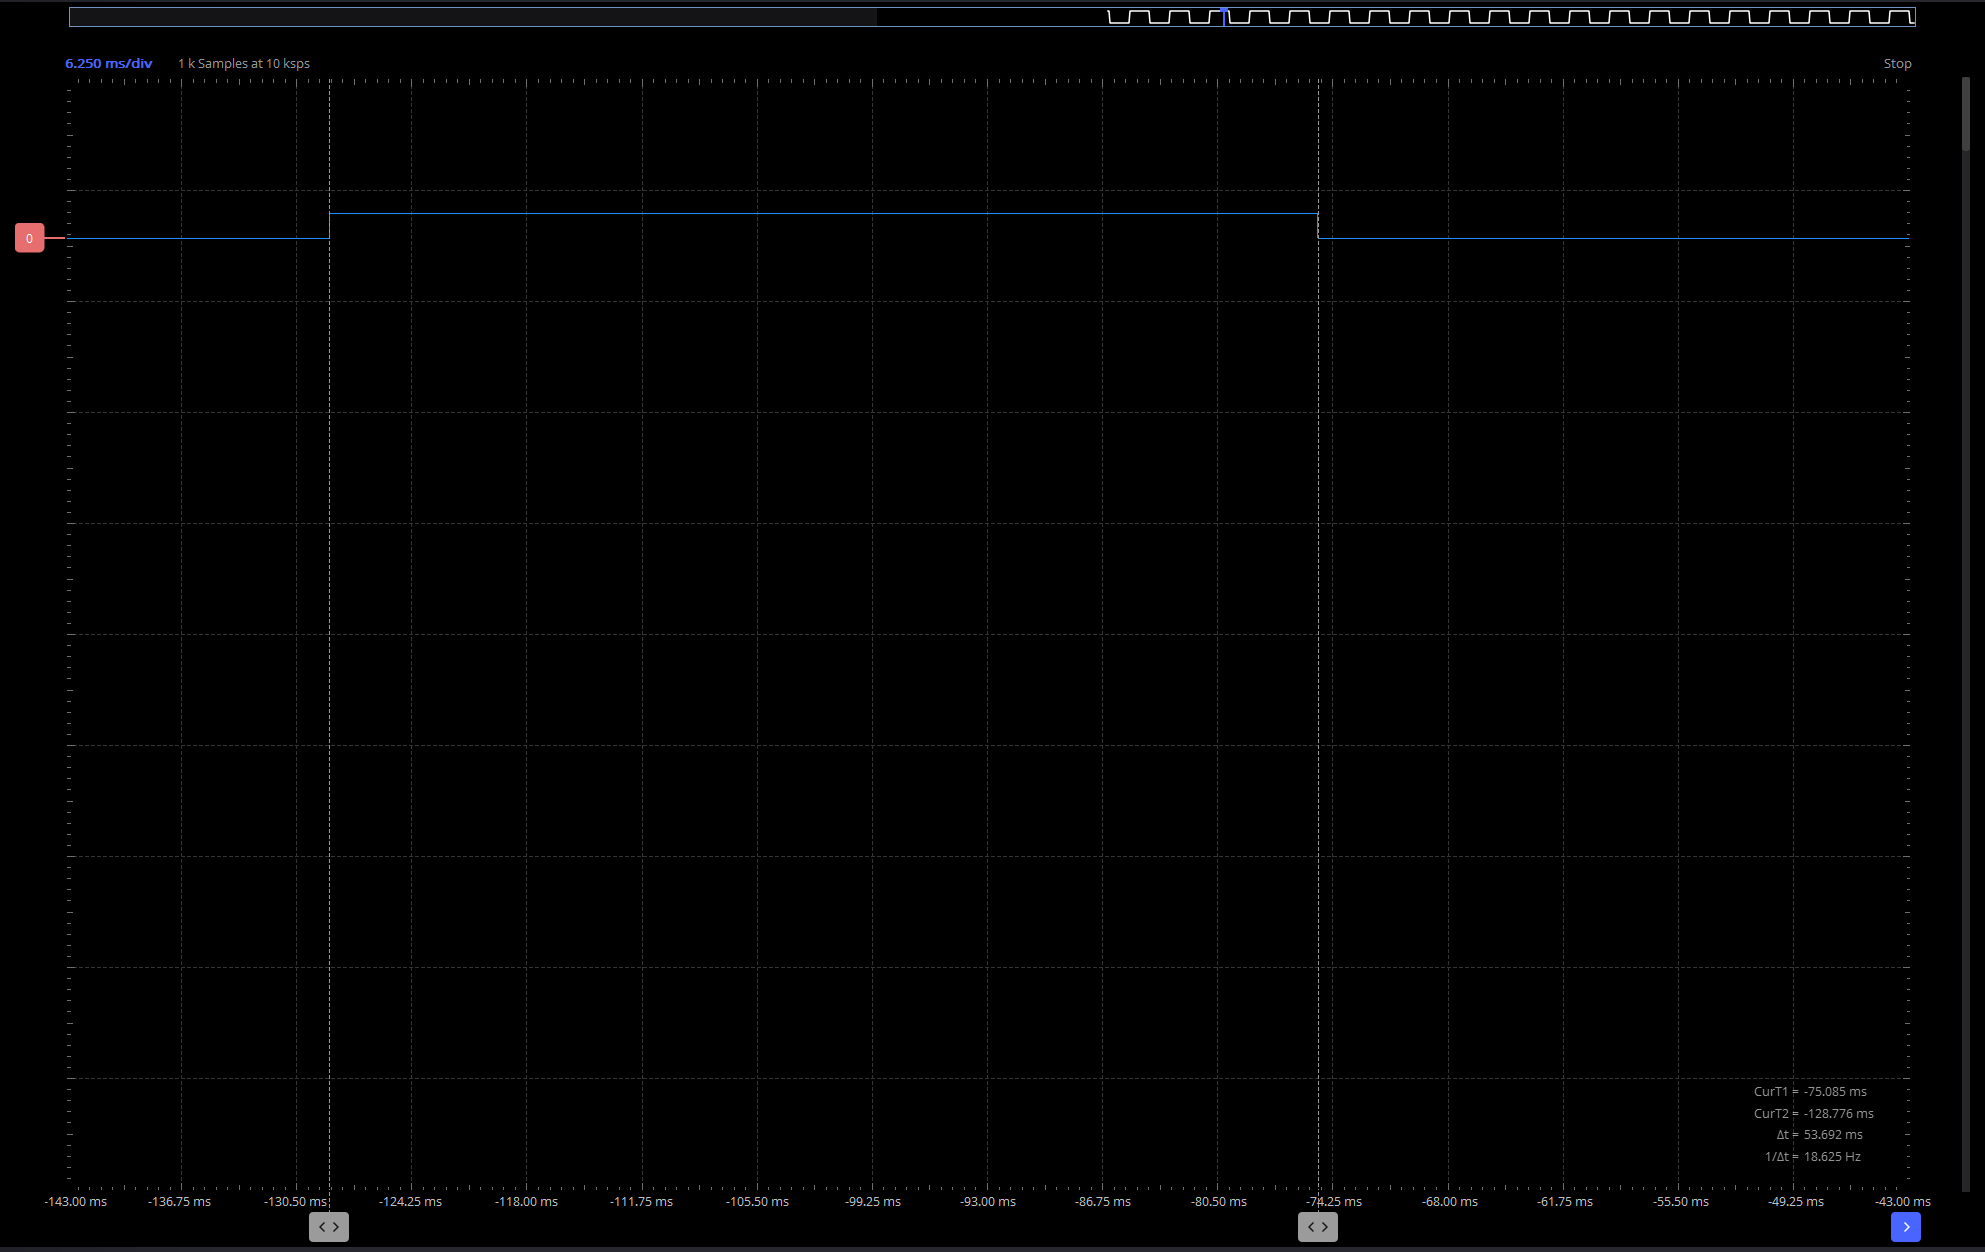
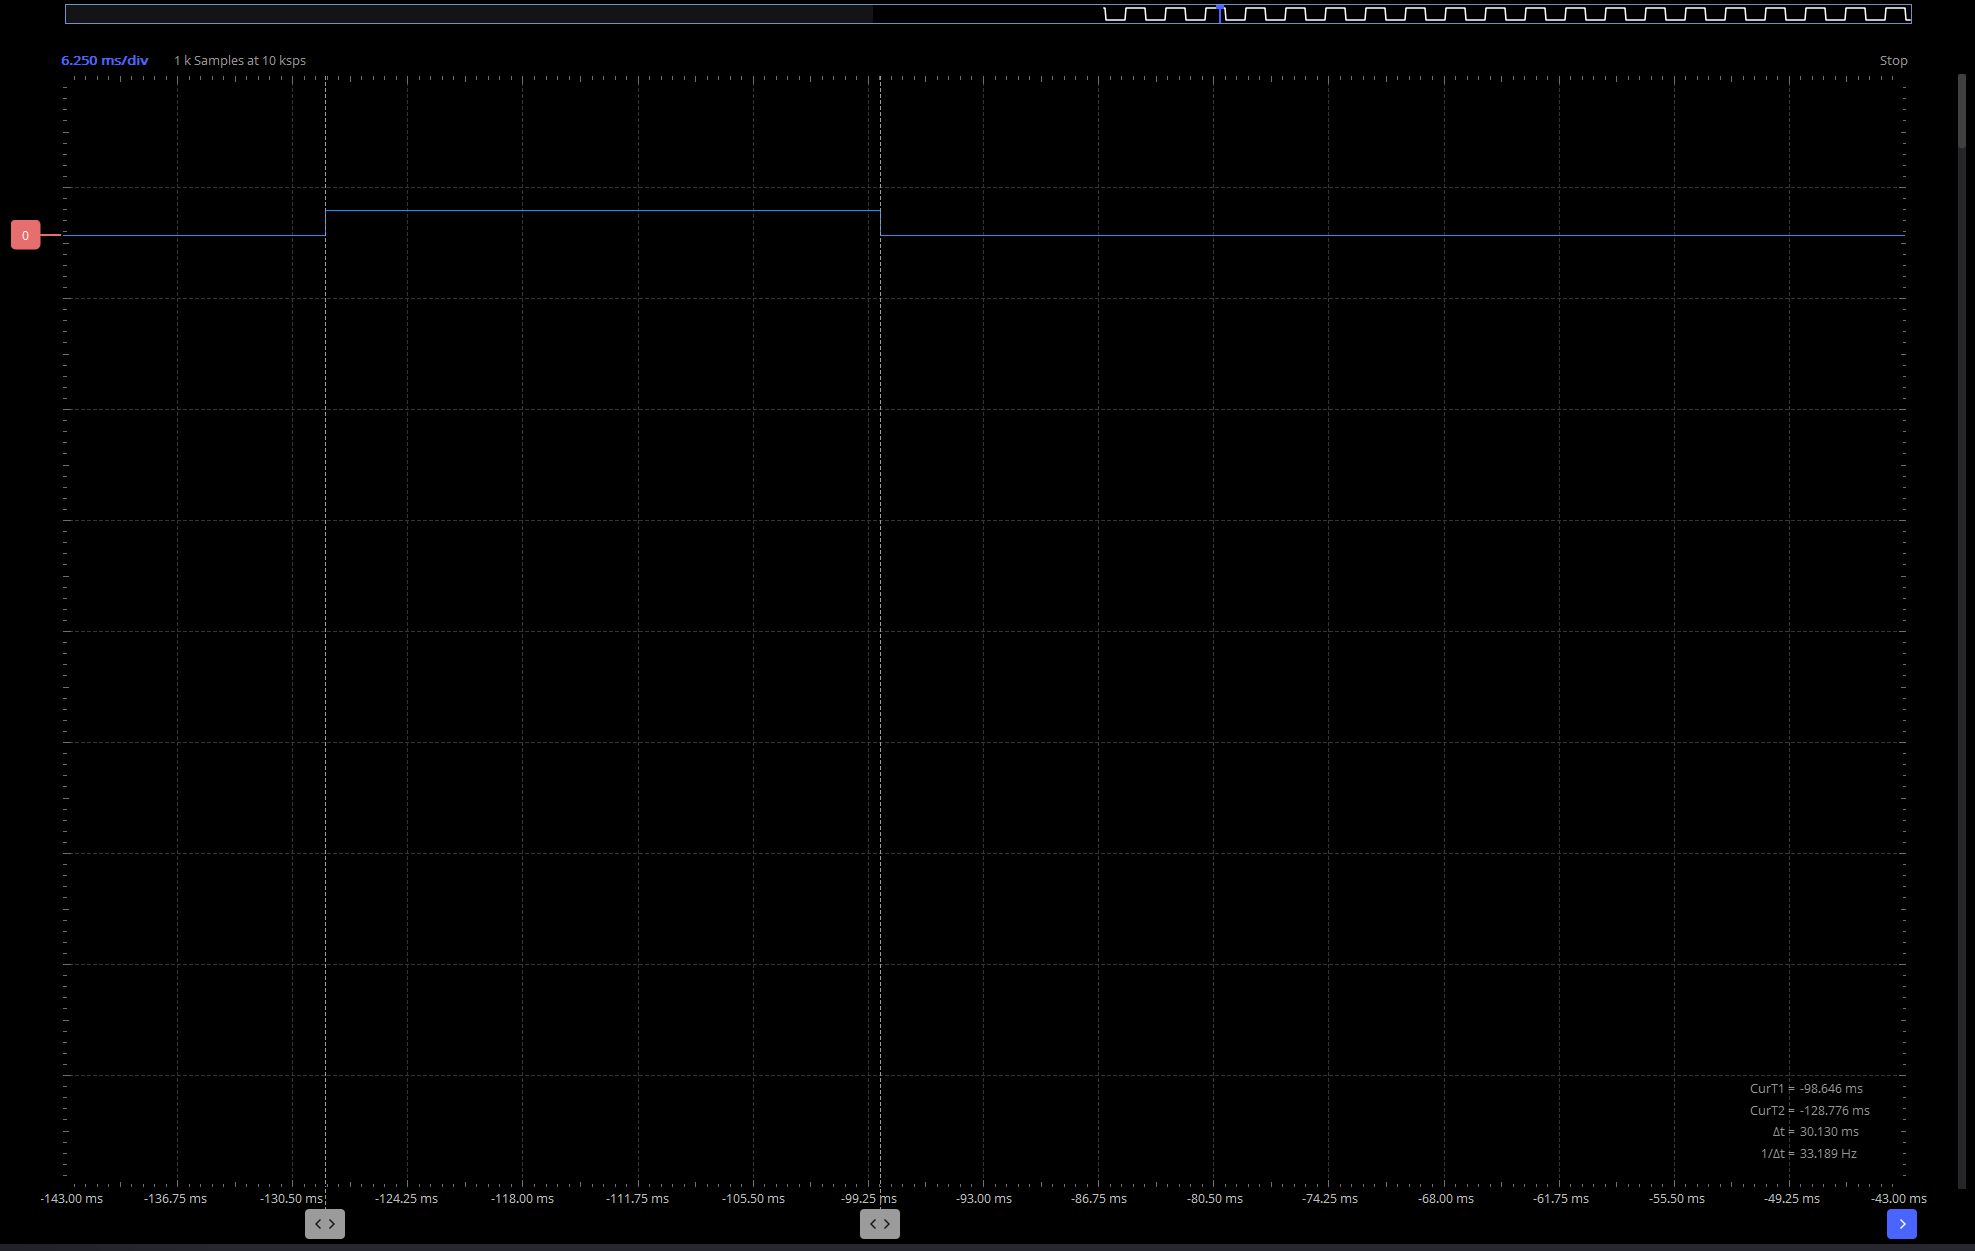
update

diff --git a/Project6-Timers/README.md b/Project6-Timers/README.md
@@ -25,6 +25,6 @@ the call back is to turn off the light and it called when the timer is done.
 - check that although the delay of 1 second is still in the loop function, the LED now turns off after 5 seconds
 
 - change the LED time ON from 5 seconds to 30 ms, measure in the scope the time the LED is ON. is it 30 ms? Why or why not?
-answer here: its close but not since there is a bit of latancy from the moment we set and start the timer and also from the moment it goes to the function thes all result in ~50ms delay rather than a the wanted 30ms. also the pressing is a bit longer so it can influence th trigger of the light wich can cause it to shine a bit longer.
+answer here: its close but not since there is a bit of latancy from the moment we set and start the timer and also from the moment it goes to the function thes all result in 170microseconds og latancy 
 paste a screen shot from the scope below:
 ![alt text](6_3.PNG)
